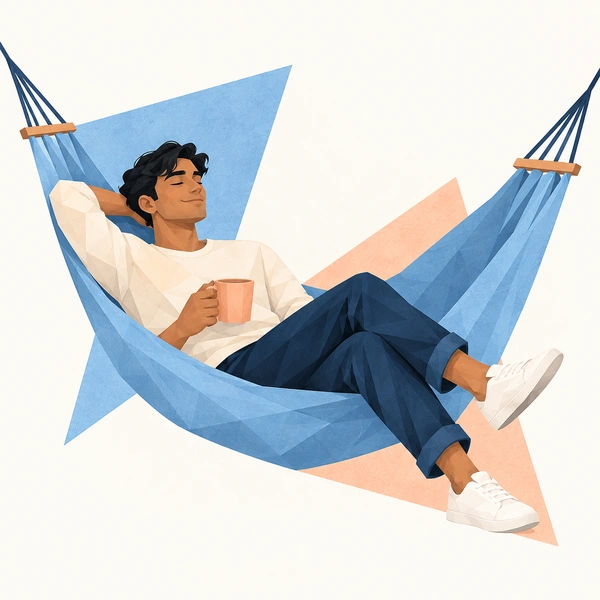
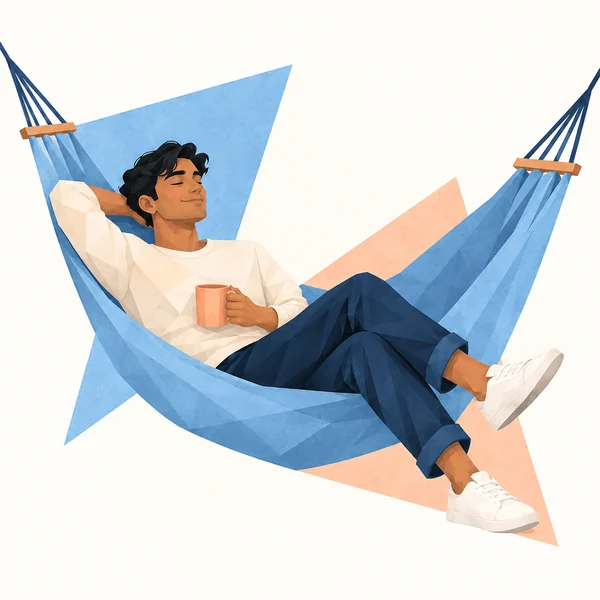
Replace the Bon Vivant illustration (female and male)
Claude-Session: https://claude.ai/code/session_01Rfy3BNddcXx6qUj7Ygt327

diff --git a/docs/profile-name-art/flagged.md b/docs/profile-name-art/flagged.md
@@ -2,6 +2,6 @@
 
 | Fil | Navn | Feil | Meldt |
 |---|---|---|---|
-| app/assets/names/C4l.webp og app/assets/names/male/C4l.webp (samme bilde) | Livsnyteren / The Bon Vivant | Mannen i hengekøya ser ut til å ha tre armer: én bak hodet, én med koppen og et ekstra ermet arm til venstre. | Rune, 2026-10-13 |
+| app/assets/names/C4l.webp og app/assets/names/male/C4l.webp (samme bilde) | Livsnyteren / The Bon Vivant | Mannen i hengekøya ser ut til å ha tre armer: én bak hodet, én med koppen og et ekstra ermet arm til venstre. | Rune, 2026-10-13. Erstattet samme dag (begge versjoner). |
 
 Lag nye versjoner med samme filnavn og stil (docs/profile-name-art/style-brief.txt), så tas de i bruk uten kodeendringer.
